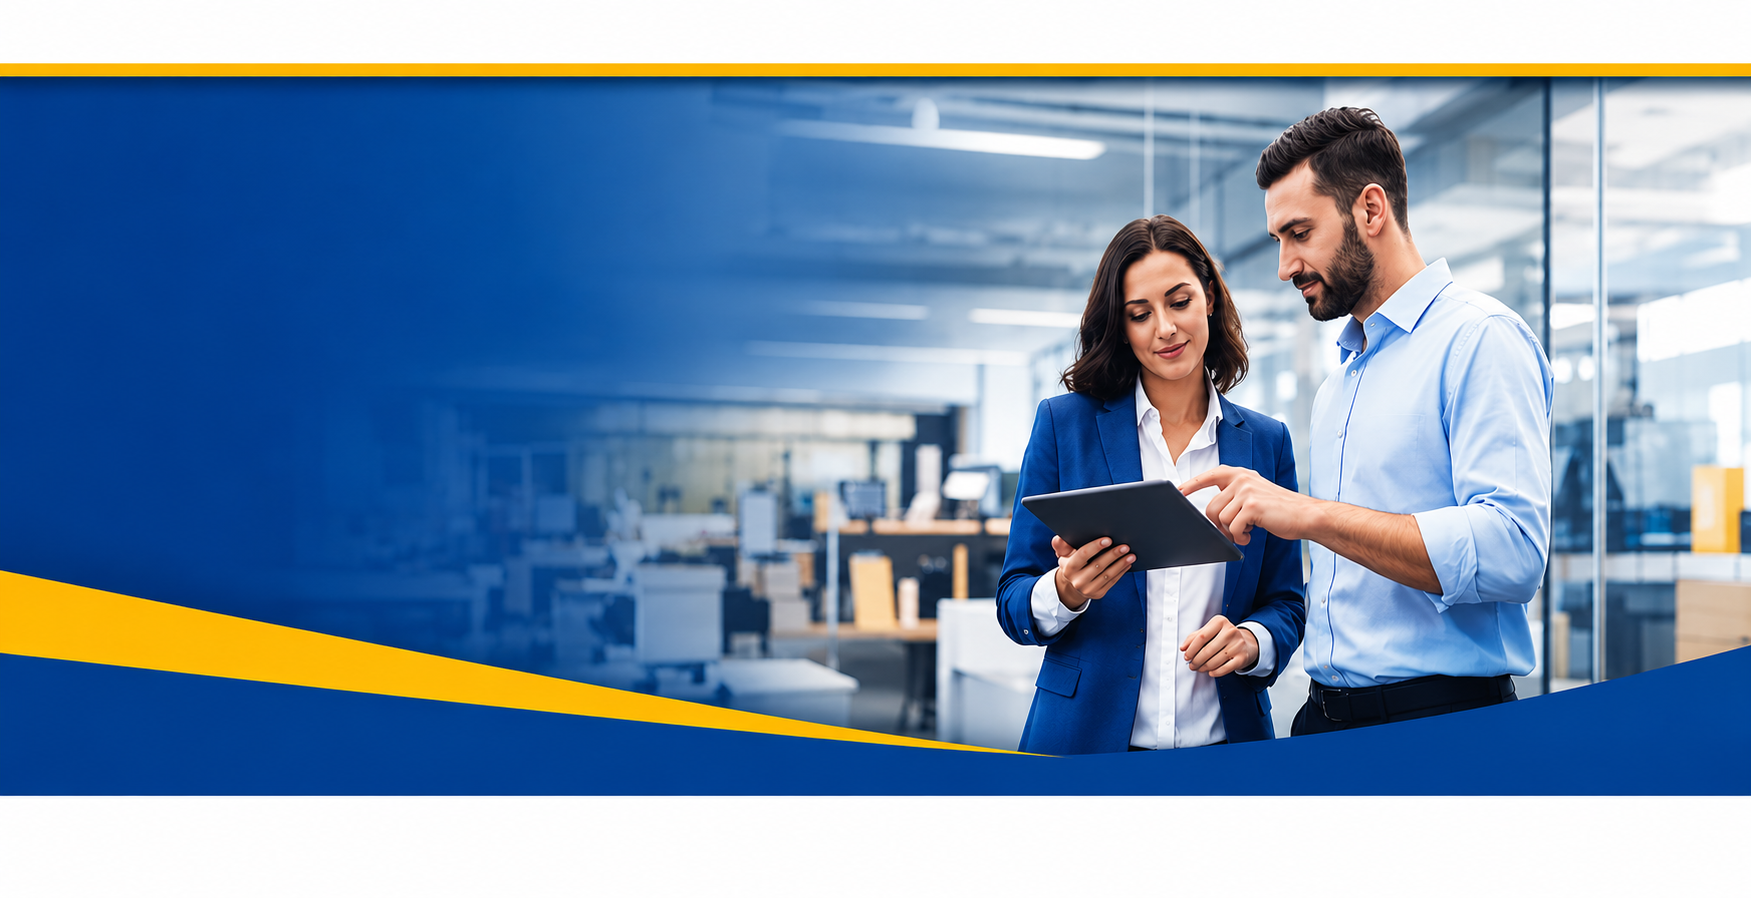
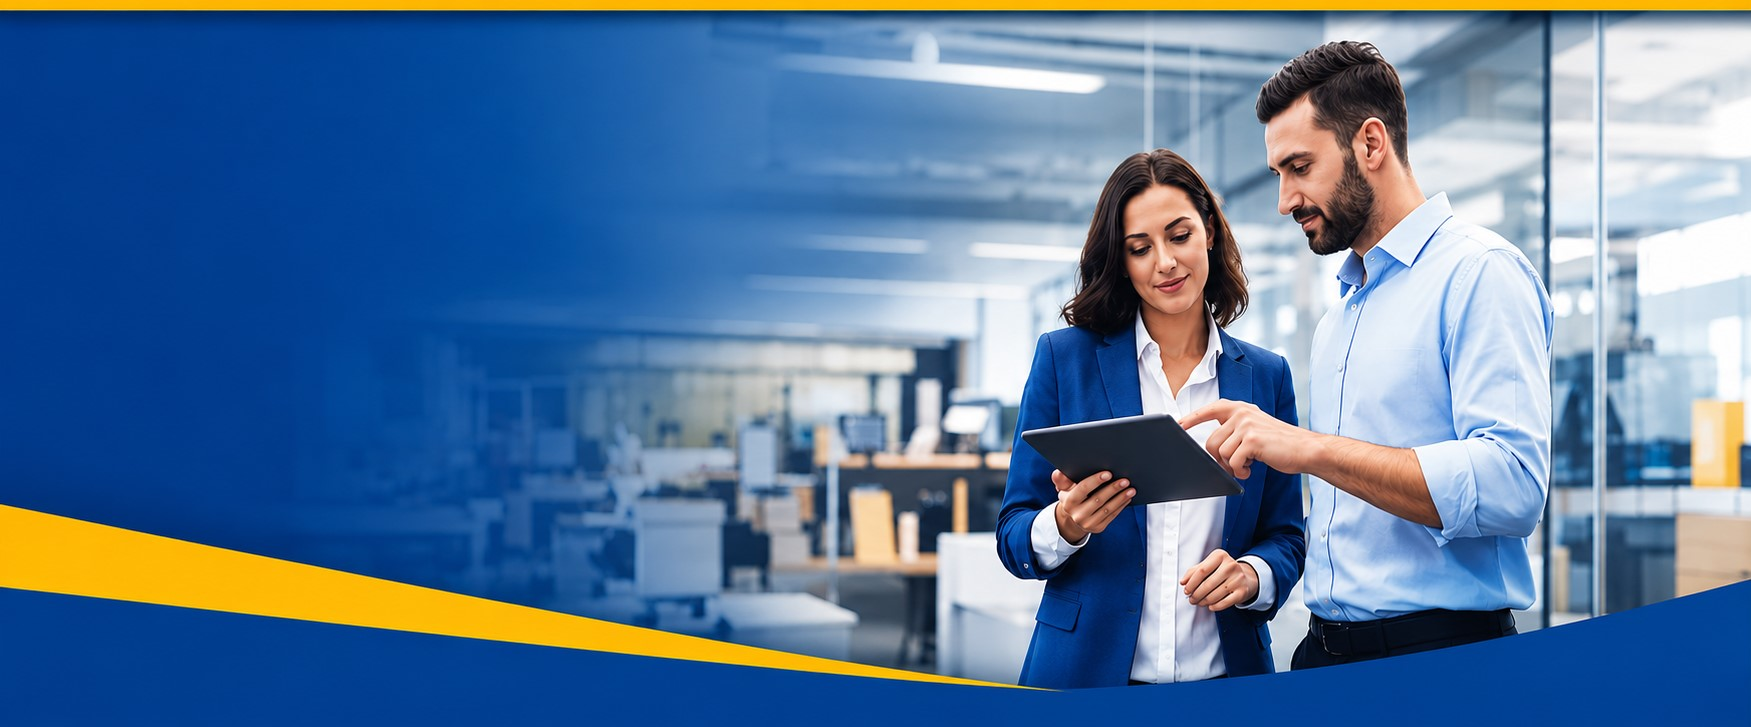
update

diff --git a/style.css b/style.css
@@ -35,7 +35,7 @@ body {
 .site-header {
   height: 66px;
   background: linear-gradient(#004d9a,#003c84);
-  border-bottom: 7px solid var(--yellow);
+  /* border-bottom: 7px solid var(--yellow); */
   position: relative;
   z-index: 5
 }
@@ -104,14 +104,14 @@ body {
   height: 550px;
   position: relative;
   overflow: hidden;
-  background: #0a4d96
+  background: #0a4d96;
 }
 
 .hero-img {
   width: 100%;
   height: 100%;
-  object-fit: cover;
-  display: block
+  /* object-fit: cover; */
+  display: block;
 }
 
 .hero-content {
@@ -359,21 +359,18 @@ h1 {
 }
 
 .footer {
-  background: linear-gradient(#004e9d,#003576);
+  background-image: url('images/footer-bg.png');
+  background-size: cover;
+  background-position: top center;
+  background-repeat: no-repeat;
   color: #fff;
   position: relative;
-  padding: 54px 0 10px;
-  overflow: hidden
+  padding: 170px 0 0 0px;
+  overflow: hidden;
 }
 
 .footer-wave {
-  position: absolute;
-  top: 0;
-  left: 0;
-  right: 0;
-  height: 64px;
-  background: linear-gradient(174deg,transparent 0 44%,var(--yellow) 45% 58%,#00458f 59%);
-  transform: translateY(-28px)
+  display: none
 }
 
 .footer-inner {
@@ -493,7 +490,7 @@ h1 {
   text-align: center;
   font-size: 10px;
   color: rgba(255,255,255,.65);
-  margin: 14px 0 0
+  /* margin: 14px 0 0; */
 }
 
 @media(max-width: 850px) {
@@ -560,7 +557,12 @@ h1 {
   .project-card img,.news-card {
       height: 210px
   }
-
+.footer{
+  background-image: url('images/footer-bg.jpg');
+  background-size: cover;
+  background-position: center;
+  background-repeat: no-repeat;
+}
   .footer-inner {
       grid-template-columns: 1fr
   }

diff --git a/index.html b/index.html
@@ -147,7 +147,7 @@
       </section>
 
       <footer class="footer" id="contact">
-        <div class="footer-wave"></div>
+        
         <div class="container footer-inner">
           <div class="footer-left">
             <div class="contact-heading">